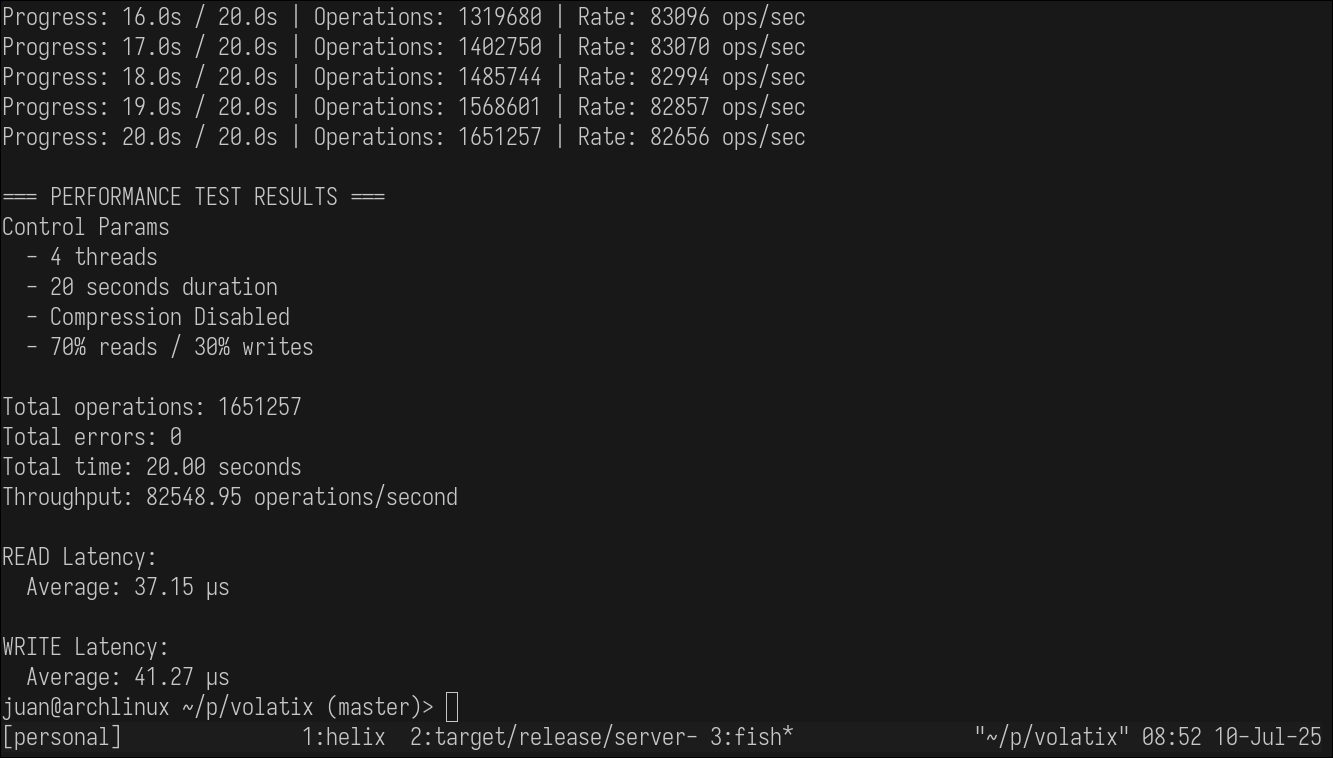
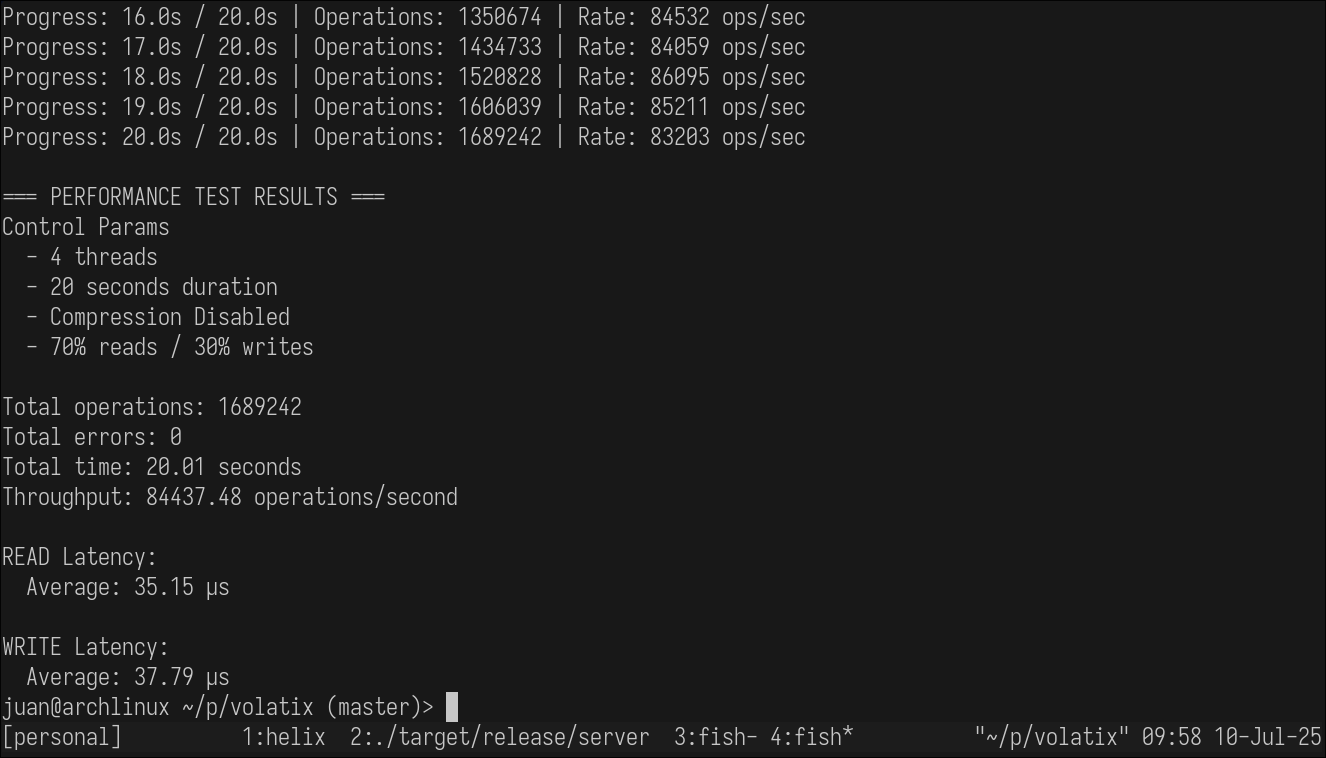
fix: use non-exclusive locks for get_entries

diff --git a/server/src/main.rs b/server/src/main.rs
@@ -202,7 +202,7 @@ fn process_request(req: &RequestType, storage: Arc<parking_lot::RwLock<LockedSto
                     match &children[i] {
                         RequestType::BulkString { data } => {
                             let key = String::from_utf8_lossy(data).to_string();
-                            let entry = storage.write().get_entry(&key);
+                            let entry = storage.read().get_entry(&key);
 
                             match entry {
                                 Some(e) => bulk_string_response(Some(&e.value.to_string())),
@@ -221,7 +221,7 @@ fn process_request(req: &RequestType, storage: Arc<parking_lot::RwLock<LockedSto
                     match &children[i] {
                         RequestType::BulkString { data } => {
                             let key = String::from_utf8_lossy(data).to_string();
-                            let exists = storage.write().key_exists(&key);
+                            let exists = storage.read().key_exists(&key);
                             boolean_response(exists)
                         }
                         _ => bulk_error_response("Invalid request type for EXISTS key"),
@@ -275,7 +275,7 @@ fn process_request(req: &RequestType, storage: Arc<parking_lot::RwLock<LockedSto
                     match &children[i] {
                         RequestType::BulkString { data } => {
                             let key = String::from_utf8_lossy(data).to_string();
-                            let entry = storage.write().get_entry(&key);
+                            let entry = storage.read().get_entry(&key);
 
                             match entry {
                                 Some(e) => bulk_string_response(Some(&e.to_string())),
@@ -340,7 +340,7 @@ fn process_request(req: &RequestType, storage: Arc<parking_lot::RwLock<LockedSto
                     match &children[i] {
                         RequestType::BulkString { data } => {
                             let key = String::from_utf8_lossy(data).to_string();
-                            let ttl = storage.write().time_to_live(&key);
+                            let ttl = storage.read().time_to_live(&key);
                             match ttl {
                                 Some(ttl) => integer_response(ttl.as_secs() as i64),
                                 None => null_response(),
@@ -462,7 +462,7 @@ fn process_request(req: &RequestType, storage: Arc<parking_lot::RwLock<LockedSto
                         }
                     }
 
-                    let entries = storage.write().get_entries(&keys);
+                    let entries = storage.read().get_entries(&keys);
                     // Entries -> Vec<(String, Option<StorageEntry>)>
                     // Response -> [[key, value|null], [key, value|null]]
                     batch_entries_response(&entries)
@@ -695,7 +695,7 @@ fn main() -> anyhow::Result<()> {
 
     // TODO: Figure this out
     println!("Saving data to disk...");
-    storage.write().save_to_disk(persistent_path)?;
+    storage.read().save_to_disk(persistent_path)?;
     println!("Data saved successfully.");
 
     Ok(())

diff --git a/server/src/storage.rs b/server/src/storage.rs
@@ -326,7 +326,7 @@ impl LockedStorage {
         Some(entry.clone())
     }
 
-    pub fn key_exists(&mut self, key: &str) -> bool {
+    pub fn key_exists(&self, key: &str) -> bool {
         self.get_entry(key).is_some()
     }
 
@@ -335,7 +335,7 @@ impl LockedStorage {
     }
 
     // batch operations
-    pub fn get_entries(&mut self, keys: &[String]) -> Vec<(String, Option<StorageEntry>)> {
+    pub fn get_entries(&self, keys: &[String]) -> Vec<(String, Option<StorageEntry>)> {
         let mut result = Vec::new();
         for key in keys {
             result.push((key.to_string(), self.get_entry(key)));
